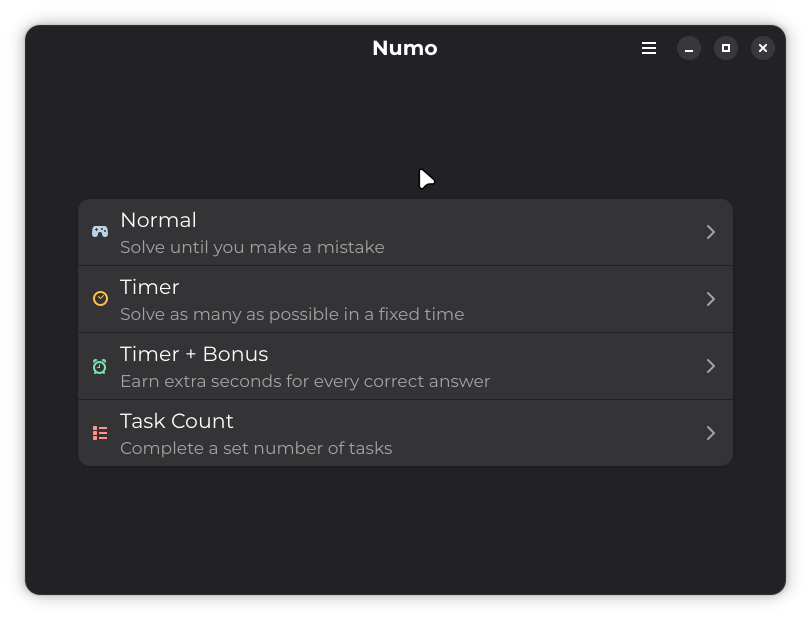
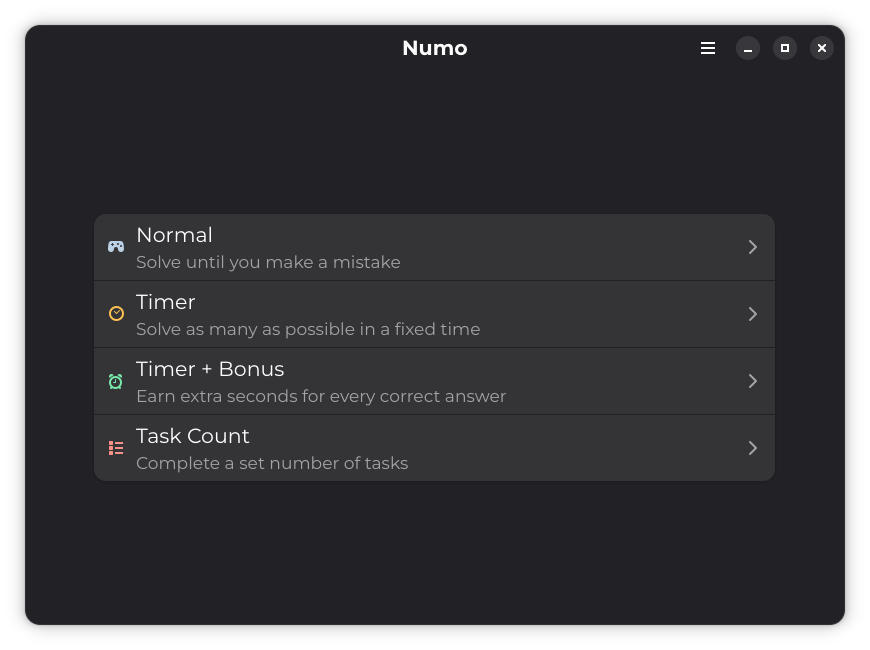
Readme update

diff --git a/README.md b/README.md
@@ -10,7 +10,7 @@
 
 **Fast mental math training**
 
-<img src="/data/screenshots/readme.png" alt="Main page">
+<img src="/data/screenshots/readme.png" width="325" height="375" alt="Main page">
 
 </div>
 
